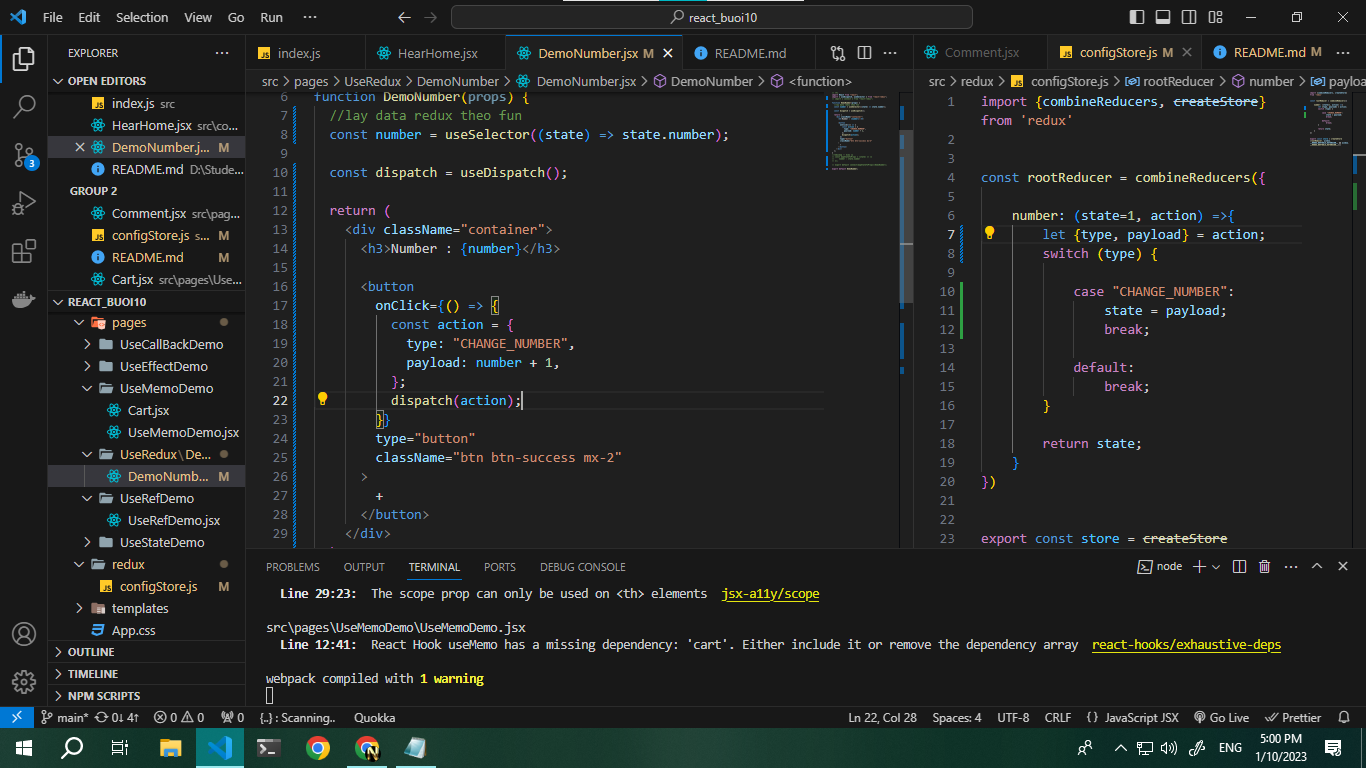
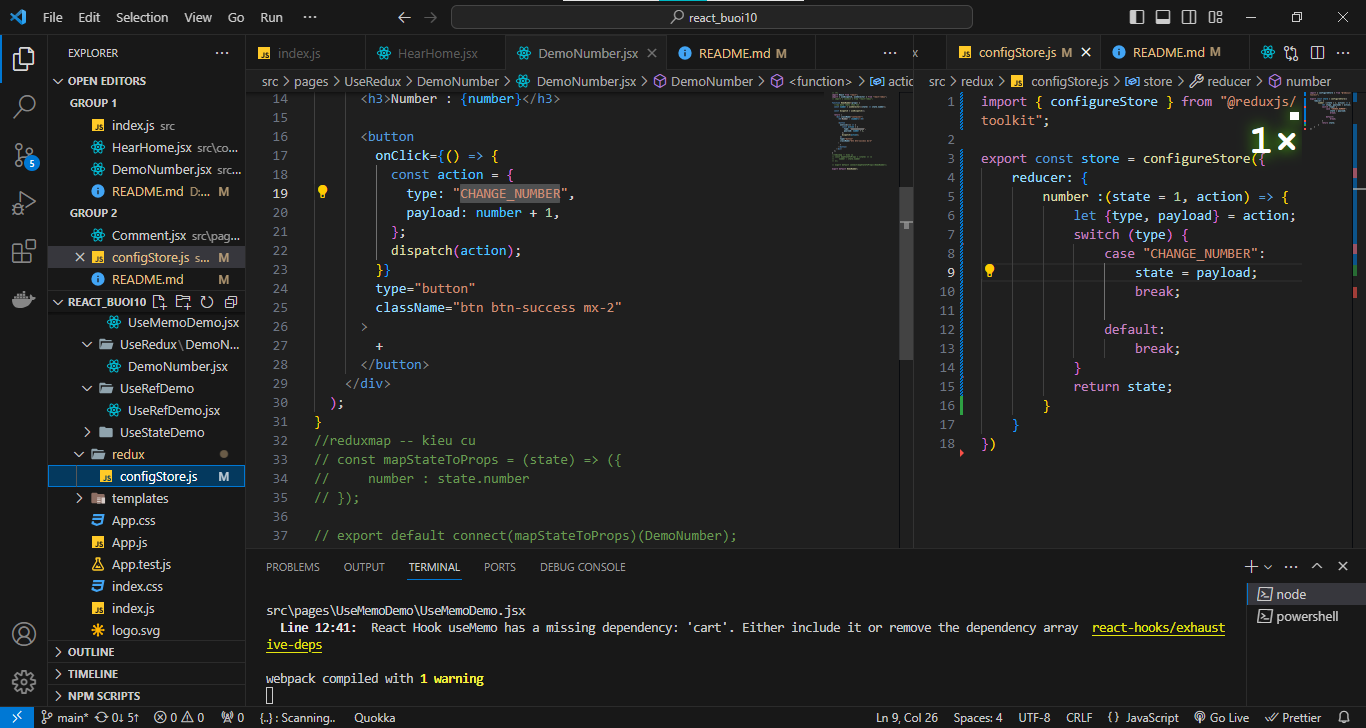
redux viet theo @reduxjs/toolkit

diff --git a/react_buoi10/src/redux/configStore.js b/react_buoi10/src/redux/configStore.js
@@ -1,23 +1,18 @@
-import {combineReducers, createStore} from 'redux'
+import { configureStore } from "@reduxjs/toolkit";
 
-
-const rootReducer = combineReducers({
-
-    number: (state=1, action) =>{
-        let {type, payload} = action;
-        switch (type) {
+export const store = configureStore({
+    reducer: {
+        number :(state = 1, action) => {
+            let {type, payload} = action;
+            switch (type) {
+                case "CHANGE_NUMBER":
+                    state = payload;
+                    break;
             
-            case "CHANGE_NUMBER":
-                state = payload;
-                break;
-        
-            default:
-                break;
+                default:
+                    break;
+            }
+            return state;
         }
-
-        return state;
     }
 })
-
-
-export const store = createStore(rootReducer, window.__REDUX_DEVTOOLS_EXTENSION__ && window.__REDUX_DEVTOOLS_EXTENSION__())

diff --git a/README.md b/README.md
@@ -25,6 +25,7 @@ Học FE cơ bản
     npm i axios                 -- goi APi
     npm i redux                 -- redux
     npm i react-redux           -- redux
+    npm i @reduxjs/toolkit
     chen bootstrap -- fa5-css -- fontawesome
 
     npm build

diff --git a/react_buoi10/README.md b/react_buoi10/README.md
@@ -37,4 +37,6 @@
     - sử dụng useSelector(state => state.number)
     - useDispatch() de gui action
 
+    -npm i @reduxjs/toolkit
+
 ![...](./images//img_redux.png)
